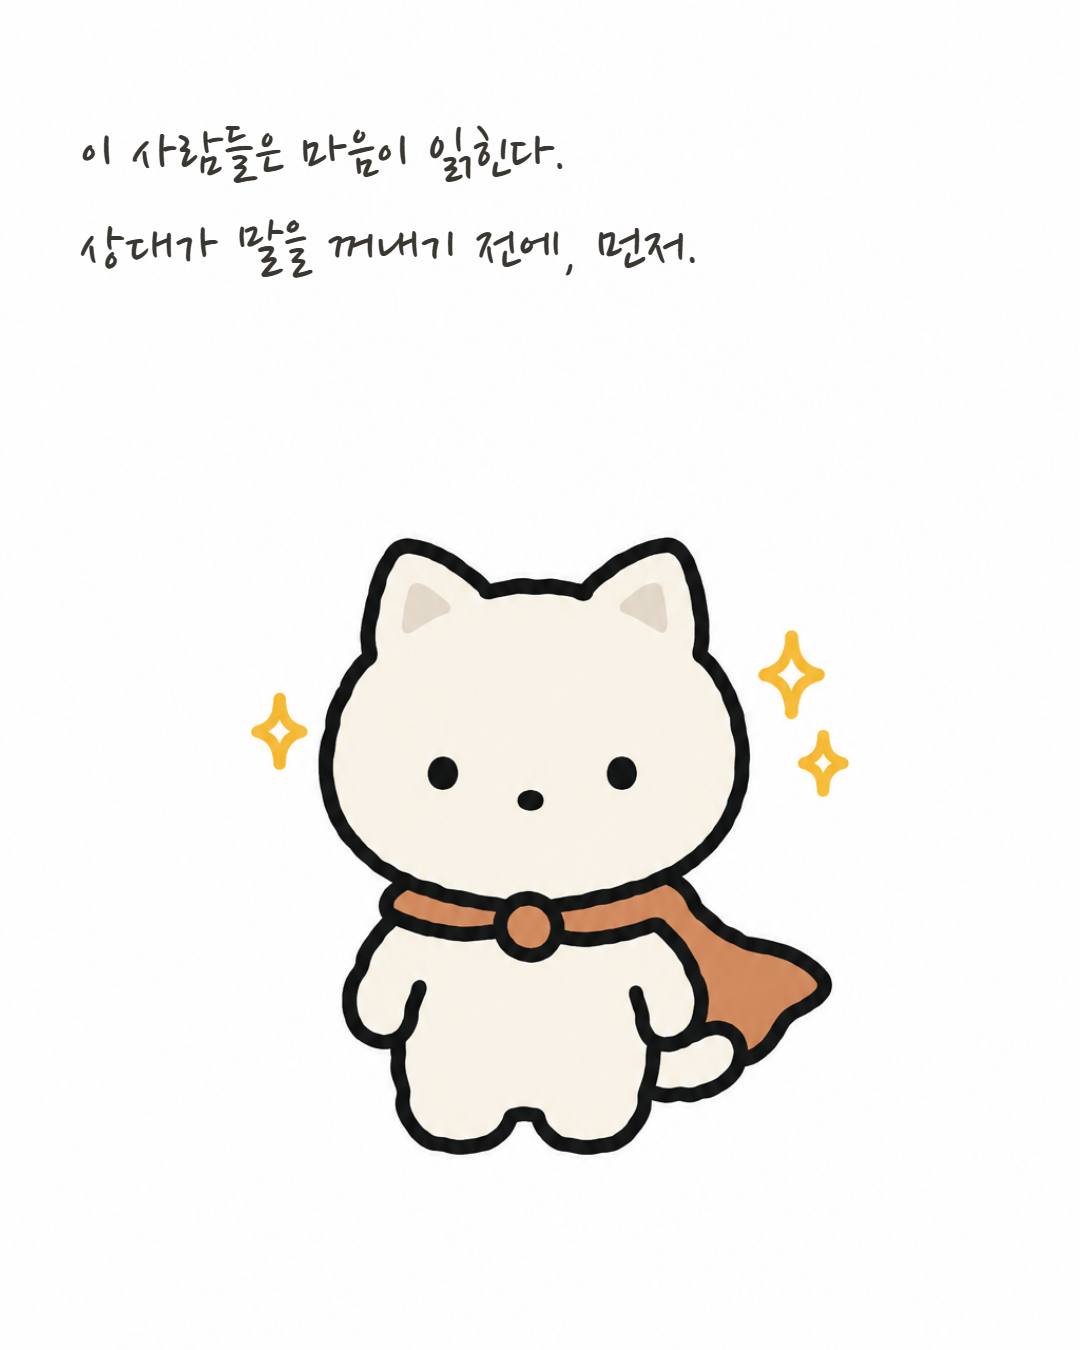
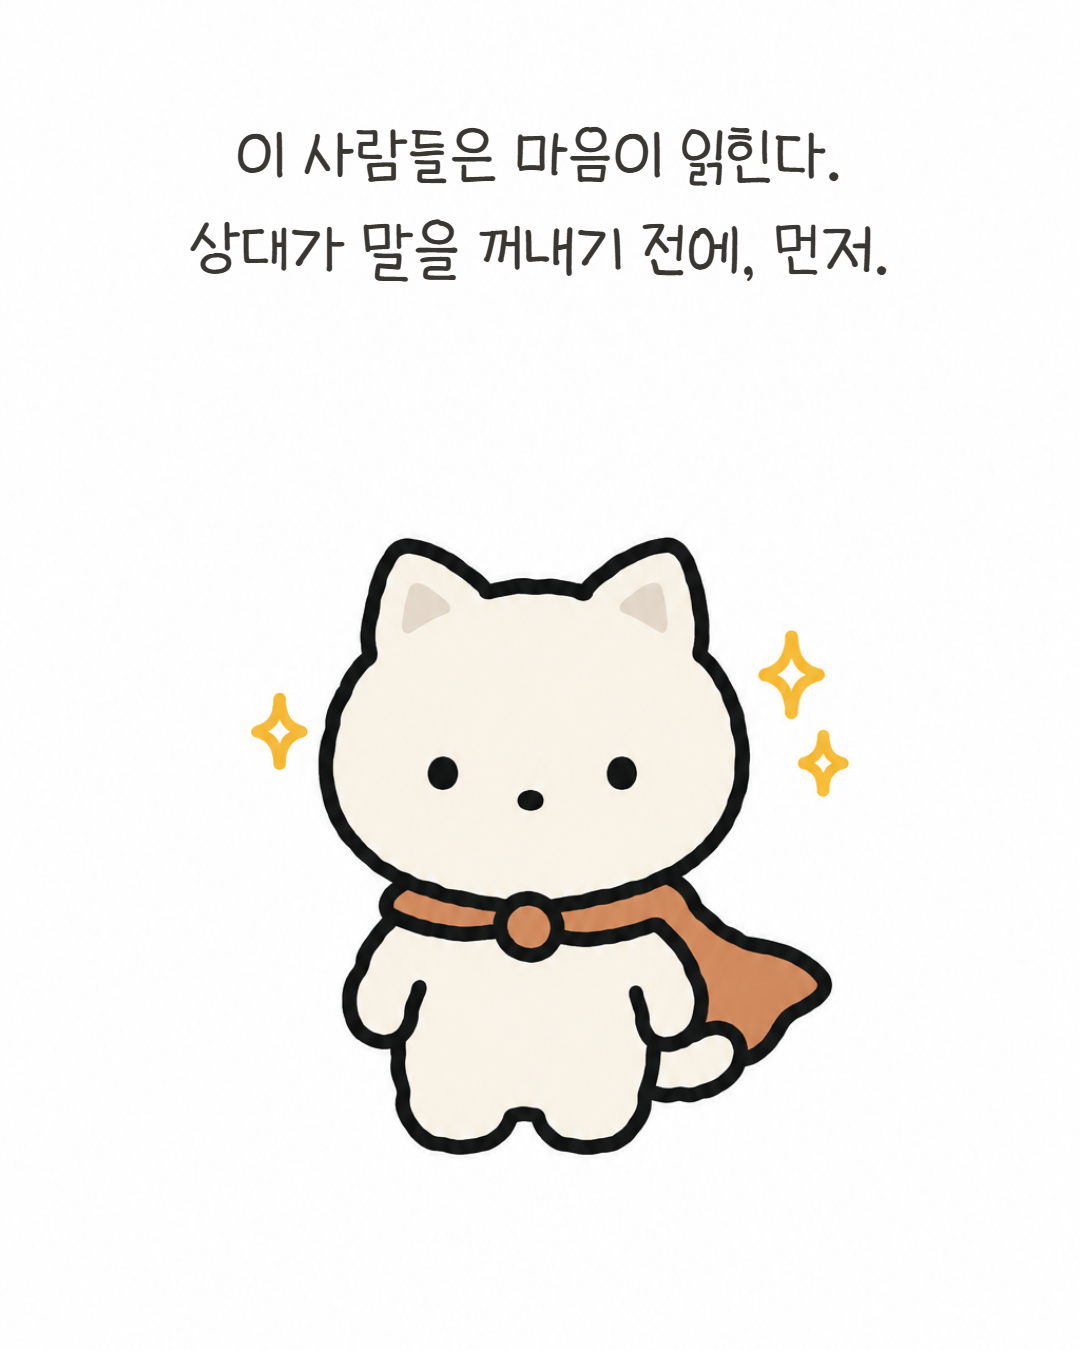
본문 폰트 교보손글씨 2019 확정, 내레이션 가운데 정렬, 정렬 비교 페이지

Changed region(s): [[0.0611, 0.0933, 0.825, 0.2178]]

diff --git a/episodes/ep01/align-compare.html b/episodes/ep01/align-compare.html
@@ -1,0 +1,53 @@
+<!doctype html>
+<html lang="ko">
+<head>
+<meta charset="utf-8">
+<meta name="viewport" content="width=device-width,initial-scale=1">
+<title>EP.01 내레이션 정렬 비교 — 교보손글씨 2019</title>
+<link href="https://fonts.googleapis.com/css2?family=Gowun+Dodum&display=swap" rel="stylesheet">
+<style>
+  @font-face{font-family:'KyoboHand';src:url('https://cdn.jsdelivr.net/gh/projectnoonnu/noonfonts_20-04@1.0/KyoboHand.woff') format('woff');font-display:swap}
+  :root{--ink:#3A3733;--mind:#6B655D;--point:#C77B3F}
+  *{box-sizing:border-box}
+  body{margin:0;padding:32px 12px 96px;background:#EFEAE2;color:var(--ink);font-family:'Gowun Dodum','Malgun Gothic',sans-serif;line-height:1.6}
+  main{max-width:1100px;margin:0 auto}
+  h1{font-size:20px;margin:0 0 4px}
+  .sub{font-size:13px;color:#8A837A;margin:0 0 22px}
+  .card{background:#FFFDF9;border-radius:12px;padding:12px 12px 14px;margin-bottom:18px;box-shadow:0 2px 14px rgba(58,55,51,.08)}
+  .card h2{font-size:15px;margin:0 0 8px;font-weight:400}
+  .row{display:grid;grid-template-columns:1fr 1fr;gap:10px}
+  @media(max-width:560px){.row{grid-template-columns:1fr}}
+  .lab{font-size:12px;color:#8A837A;margin:0 0 4px}
+  .box{position:relative;overflow:hidden;border-radius:8px;border:1px solid #E6E0D6}
+  .slide{position:absolute;left:0;top:0;width:1080px;height:1350px;background:#fff;transform-origin:0 0;font-family:'KyoboHand'}
+  .slide img{position:absolute;inset:0;width:1080px;height:1350px;object-fit:cover;object-position:50% 100%}
+  .dim img{filter:saturate(.55)}
+  .nar{position:absolute;left:80px;right:80px;top:110px;margin:0;font-size:66px;line-height:1.42;word-break:keep-all}
+  .c .nar{text-align:center}
+  .mind{position:absolute;margin:0;font-size:50px;line-height:1.35;color:var(--mind)}
+  .cta{position:absolute;left:80px;right:80px;top:335px;margin:0;font-size:58px;color:var(--point);text-align:center}
+</style>
+</head>
+<body>
+<main>
+  <h1>EP.01 내레이션 정렬 비교</h1>
+  <p class="sub">본문 폰트 교보손글씨 2019 확정. 왼쪽 = 왼쪽 정렬, 오른쪽 = 가운데 정렬. 속마음·CTA 위치는 동일.</p>
+  <div id="cards"></div>
+</main>
+<script>
+const CUTS = [
+  ['1 초능력 설명', '', `<img src="img/cut1.png"><p class="nar">이 사람들은 마음이 읽힌다.<br>상대가 말을 꺼내기 전에, 먼저.</p>`],
+  ['3 장점 — 엄마 (긴 문장)', '', `<img src="img/cut3.png"><p class="nar">잔소리 안에 든 걱정까지 읽힌다.<br>그래서 그냥 "응" 하고 만다.</p>`],
+  ['4 공유 컷 (속마음 포함)', 'dim', `<img src="img/cut4.png"><p class="nar">단톡방에 "ㅇㅇ" 두 글자가 오면<br>거기 담긴 마음까지 읽는다.</p><p class="mind" style="right:90px;top:330px;text-align:right">…화났나.<br>아까 그 말 때문인가.</p><p class="mind" style="right:80px;bottom:60px;font-size:38px;color:#A69E93">(사실 아무것도 안 담겨 있음)</p>`],
+  ['7 마무리 + CTA', '', `<img src="img/cut7.png"><p class="nar">그래도 그 능력 덕분에,<br>누군가는 오늘 혼자가 아니었다.</p><p class="cta">당신 곁의 INFP를 태그해 주세요 🦸</p>`],
+];
+document.getElementById('cards').innerHTML = CUTS.map(([t, cls, html]) => `
+<div class="card"><h2>${t}</h2><div class="row">
+  <div><p class="lab">왼쪽 정렬</p><div class="box"><div class="slide ${cls}">${html}</div></div></div>
+  <div><p class="lab">가운데 정렬</p><div class="box"><div class="slide c ${cls}">${html}</div></div></div>
+</div></div>`).join('');
+function fit(){ document.querySelectorAll('.box').forEach(b => { const s=b.clientWidth/1080; b.style.height=Math.round(1350*s)+'px'; b.firstElementChild.style.transform=`scale(${s})`; }); }
+fit(); addEventListener('resize', fit);
+</script>
+</body>
+</html>

diff --git a/episodes/ep01/compose.html b/episodes/ep01/compose.html
@@ -5,16 +5,17 @@
 <title>EP.01 compose</title>
 <link href="https://fonts.googleapis.com/css2?family=Nanum+Pen+Script&display=swap" rel="stylesheet">
 <style>
+  @font-face{font-family:'KyoboHand';src:url('https://cdn.jsdelivr.net/gh/projectnoonnu/noonfonts_20-04@1.0/KyoboHand.woff') format('woff');font-display:swap}
   :root{--ink:#3A3733;--gray:#8A837A;--mind:#6B655D;--point:#C77B3F}
   *{box-sizing:border-box}
-  body{margin:0;background:#fff;font-family:'Nanum Pen Script',cursive;color:var(--ink)}
+  body{margin:0;background:#fff;font-family:'KyoboHand',cursive;color:var(--ink)}  /* 본문 확정: 교보손글씨 2019 */
   section{position:relative;width:1080px;height:1350px;overflow:hidden;background:#fff}
   section img{position:absolute;inset:0;width:1080px;height:1350px;object-fit:cover;object-position:50% 100%;display:block}
   #s0 img{object-fit:contain;object-position:50% 100%}
-  .title{position:absolute;left:72px;top:118px;width:936px;margin:0;font-size:132px;line-height:1.18;font-weight:700;word-break:keep-all}
+  .title{position:absolute;left:72px;top:118px;width:936px;margin:0;font-family:'Nanum Pen Script',cursive;font-size:132px;line-height:1.18;font-weight:700;word-break:keep-all}
   .title b{color:var(--point);font-weight:inherit}
   .mbti{position:absolute;left:72px;top:586px;margin:0;font-size:56px;color:var(--gray);letter-spacing:.08em}
-  .nar{position:absolute;left:80px;right:80px;top:110px;margin:0;font-size:66px;line-height:1.42;word-break:keep-all}
+  .nar{position:absolute;left:80px;right:80px;top:110px;margin:0;font-size:66px;line-height:1.42;word-break:keep-all;text-align:center}
   .mind{position:absolute;margin:0;font-size:50px;line-height:1.35;color:var(--mind);word-break:keep-all}
   .cta{position:absolute;left:80px;right:80px;top:335px;margin:0;font-size:58px;color:var(--point);text-align:center}
   .dim img{filter:saturate(.55) brightness(.99)}

diff --git a/episodes/ep01/preview.html b/episodes/ep01/preview.html
@@ -22,7 +22,7 @@
 <body>
 <main>
   <h1>EP.01 알고 싶지 않은 마음까지 읽는 초능력자</h1>
-  <p class="sub">- INFP - · 표지 + 7컷 · 1080×1350 · 폰트: 나눔손글씨 펜 (후보 1번) · <a href="compose.html">compose.html</a> · <a href="https://github.com/willowttg/superwebtoon/blob/master/episodes/ep01/conti.md">conti.md</a></p>
+  <p class="sub">- INFP - · 표지 + 7컷 · 1080×1350 · 본문 교보손글씨 2019 (가운데 정렬) · 표지 나눔손글씨 펜(미확정) · <a href="compose.html">compose.html</a> · <a href="https://github.com/willowttg/superwebtoon/blob/master/episodes/ep01/conti.md">conti.md</a></p>
   <figure><img src="img/slide1.png" alt=""><figcaption>표지</figcaption></figure>
   <figure><img src="img/slide2.png" alt=""><figcaption>1 초능력 설명</figcaption></figure>
   <figure><img src="img/slide3.png" alt=""><figcaption>2 장점 — 먹물</figcaption></figure>

diff --git a/index.html b/index.html
@@ -78,7 +78,11 @@
   <h2>에피소드</h2>
   <a class="card" href="episodes/ep01/preview.html">
     <b>EP.01 알고 싶지 않은 마음까지 읽는 초능력자 - INFP -</b>
-    <span>표지 + 7컷 완성본 · 나눔손글씨 펜 · 캡션 포함</span>
+    <span>표지 + 7컷 완성본 · 본문 교보손글씨 2019 · 캡션 포함</span>
+  </a>
+  <a class="card" href="episodes/ep01/align-compare.html">
+    <b>EP.01 내레이션 정렬 비교</b>
+    <span>왼쪽 vs 가운데 · 교보손글씨 2019 · 컷 1·3·4·7</span>
   </a>
   <a class="card" href="episodes/ep01/fonts-compare.html">
     <b>EP.01 컷 4·5 폰트 비교 12종</b>

diff --git a/.claude/skills/make-episode/SKILL.md b/.claude/skills/make-episode/SKILL.md
@@ -37,7 +37,7 @@ description: 「당신은 약간 초능력자?」 에피소드 1편 제작 — M
 ## 3. 텍스트 합성
 
 - `episodes/epNN/compose.html` — 슬라이드 8장을 각각 1080×1350 `<section>`으로. 이미지는 1024×1536 생성본을 중앙 1024×1280 크롭(`object-fit:cover`).
-- 폰트: `assets/fonts.md` 후보 중 지정(확정 전) 또는 확정 폰트. `@font-face`는 `assets/fonts.html`에서 복사.
+- 폰트: 본문(내레이션·속마음·CTA) **교보손글씨 2019** 확정, 내레이션은 가운데 정렬. 표지 제목은 미확정(현재 나눔손글씨 펜). `@font-face`는 `assets/fonts.html`에서 복사.
 - 표지: 제목 3줄 이내, 핵심 단어 `<b>`로 포인트 컬러, 부제 회색 소문자.
 - 컷: 상단 내레이션 1–2줄. 속마음은 캐릭터 옆에 작은 회색 글자, 말풍선·박스 없이.
 - Playwright MCP로 각 `<section>`을 `img/slideN.png`로 스크린샷 (viewport 1080×1350, `clip`). MCP 브라우저가 사용 중이면 `chrome-headless-shell.exe --headless --window-size=1080,1350 --virtual-time-budget=10000 --screenshot=img/slideN.png compose.html?only=N` (N은 0부터; `?only`는 compose.html에 그 슬라이드만 남기는 스크립트로 처리).

diff --git a/assets/fonts.md b/assets/fonts.md
@@ -1,6 +1,6 @@
 # 폰트 후보
 
-비교 페이지: https://willowttg.github.io/superwebtoon/assets/fonts.html · EP.01 테스트에서 표지용 1종 + 본문용 1종 확정. 확정 전까지 스킬은 `--font` 인자로 후보를 받는다.
+비교 페이지: https://willowttg.github.io/superwebtoon/assets/fonts.html · **본문 확정: 7번 교보손글씨 2019** (내레이션·속마음·CTA, 내레이션은 가운데 정렬). 표지용은 미확정 — EP.01은 1번 나눔손글씨 펜 임시 적용. 적용 비교: [ep01/fonts-compare.html](https://willowttg.github.io/superwebtoon/episodes/ep01/fonts-compare.html)
 
 조건: 상업적 이용 가능(웹·SNS 게시), 손글씨 느낌, 보리의 흔들리는 손그림 선과 충돌하지 않을 것. 모두 웹폰트 CDN으로 바로 쓸 수 있어 합성 HTML에 그대로 넣는다.
 

diff --git a/episodes/ep01/conti.md b/episodes/ep01/conti.md
@@ -1,6 +1,6 @@
 # EP.01 알고 싶지 않은 마음까지 읽는 초능력자
 
-부제 `- INFP -` · 표지 + 7컷 · 폰트: 나눔손글씨 펜 (후보 1번) · 포인트 컬러 `#C77B3F` (제목의 "읽는")
+부제 `- INFP -` · 표지 + 7컷 · 본문 폰트 교보손글씨 2019 · 표지 나눔손글씨 펜(미확정) · 포인트 컬러 `#C77B3F` (제목의 "읽는")
 
 | # | 장면 | 내레이션 (상단) | 속마음 (캐릭터 옆, 회색) | 프롬프트 요점 |
 |---|---|---|---|---|
